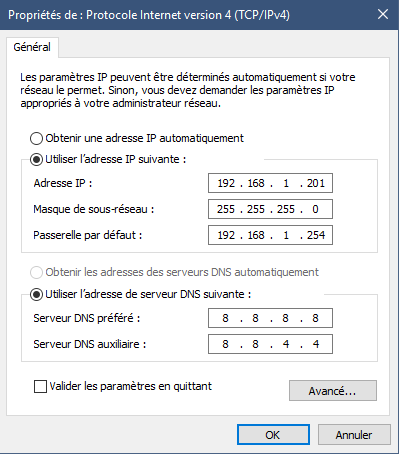
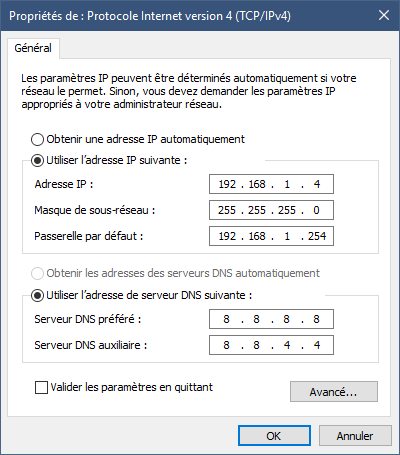
Update files

diff --git a/image_njz3/README.md b/image_njz3/README.md
@@ -2,9 +2,11 @@ Distribution Sega Racer 2022-2024 - njz3
 
 # A propos
 
-Cette image disque est basée sur un Windows 10 entreprise dont la configuration a été adaptée aux racecabs.
-Elle propose un Hyperspin basé sur Maximum Car de HFS Play, avec la plupart des jeux et emulateurs
-pré-configurés pour être jouables immédiatement en mode retour de force.
+Cette image disque est basée sur un Windows 10 entreprise dont la configuration
+a été adaptée aux racecabs.
+Elle propose un Hyperspin basé sur Maximum Car de HFS Play, avec la plupart des
+jeux et emulateurs pré-configurés pour être jouables immédiatement en mode 
+retour de force.
 Les dernières versions des émulateurs sont utilisés, en particulier :
 - MAME pour les jeux anciens, ou ceux des générations 90/2000 de Namco ou Taito par exemple.
 - Nebula model 2 pour Sega Model 2
@@ -14,25 +16,31 @@ Les dernières versions des émulateurs sont utilisés, en particulier :
 - Dolphin pour les jeux Triforce
 - Teknoparrot pour les jeux sur plateforme PC
 
-Le retour de force est soit natif à la plateforme ou à l'émulateur (model2, supermodel), soit généré par le 
-FFB plugin de Boomslangnz. Il a été réglé dans le BackForceFeeder afin de restituer au plus juste les effets
-originaux quand c'est possible.
-Le mapping des boutons et des axes par défaut est actuellement celui de ma borne Le Mans à savoir 1 volant 
-simple, 2 pédales, 1 Start, 2 view buttons, 1 shifter Up/Down.
-Je laisse à chacun le soin de refaire le mapping selon sa borne via mon soft BackforceFeeder en suivant le 
-nommage déjà pré-établi pour les boutons de chaque jeu.
+Le retour de force est soit natif à la plateforme ou à l'émulateur (model2,
+supermodel), soit généré par le FFB plugin de Boomslangnz. Il a été réglé dans
+le BackForceFeeder afin de restituer au plus juste les effets originaux quand
+c'est possible.
+Le mapping des boutons et des axes par défaut est actuellement celui de ma 
+borne Le Mans à savoir 1 volant, 2 pédales, 1 Start, 2 view buttons, 1 shifter
+Up/Down.
+Je laisse à chacun le soin de refaire le mapping selon sa borne via mon soft
+BackforceFeeder en suivant le nommage déjà pré-établi pour les boutons de 
+chaque jeu.
 
 La distribution fonctionne en mode FullHD (1920x1080) sur l'ensemble des jeux. 
-En se limitant aux jeux MAME, model 1/2/3 et Flycast (Naomi) la distribution peut fonctionner en 24 kHz à 
-l'aide du videoamp en 1024x768i ou 1024x384p, ou en 15 kHz avec le videoamp en mode 1280x240p ou 1280x480i.
+En se limitant aux jeux MAME, model 1/2/3 et Flycast (Naomi) la distribution
+peut fonctionner en 24 kHz à l'aide du videoamp en 1024x768i ou 1024x384p, ou
+en 15 kHz avec le videoamp en mode 1280x240p ou 1280x480i.
 
 
 # Configuration Hardware
 
 > **IMPORTANT**
-> Au premier démarrage, laisser le temps à Windows de démarrer puis installer vos drivers.
+> Au premier démarrage, laisser le temps à Windows de démarrer puis installer
+> vos drivers.
 
-Si vous pouvez connecter votre PC à internet, faites Windows Update pour récupérer vos drivers automatiquement.
+Si vous pouvez connecter votre PC à internet, faites Windows Update pour
+récupérer vos drivers automatiquement.
 Le SSD est prévu pour fonctionner sur un PC avec :
 - un processeur intel 4th gen (ou plus récent), ou un AMD Ryzen.
 - 4GB de RAM minimum
@@ -50,15 +58,20 @@ possible avec moins de jeux (uniquement MAME, model 1/2/3 et Naomi via Flycast).
 
 ## Reseau
 
-IP: 192.168.1.201 (ou 202 ou 203, 204, .. selon la cabine en multi)
+IP: 192.168.1.4 pour cabine 1 (ou 192.168.1.5 ou .6, .7, .. selon la cabine en multi)
+Masque de sous-réseau: 255.255.255.0
+Passerelle : 192.168.1.254 (modifable selon votre réseau LAN en 192.168.1.1)
+DNS : 8.8.8.8 ou 8.8.4.4 (DNS de Google)
+Broadcast address: 192.168.1.255
 
-Masque: 255.255.255.0
+Mettre réseau privé et désactiver le Firewall.
 
-Passerelle : 192.168.1.254
-
-DNS : 8.8.8.8 ou 4.4.4.4 (Google)
-
-Mettre réseau privé et désactiver le Firewall
+> **Note:**
+Pour le jeu en réseau sur model 2 emulator (Sega Rally, Daytona 1, etc.)
+if faut impérativement activer le support des trames de longues taille (3kB)
+soit via une option de votre carte réseau, soit activer l'option "Jumbo Frames"
+dans votre carte Ethernet (MTU >3kB) et avoir un switch Ethernet 1GBit qui 
+supporte les "Jumbo Frames".
 
 ![Configuration réseau](Utils/images/networkconfig.png "Configuration réseau").
 
@@ -133,21 +146,23 @@ Lancer Teknoparrot, vérifier qu'un jeu se lance.
 
 # Changement de configurations vidéo
 
-L'image standard contient des configurations d'émulateurs pour fonctionner en mode FullHD 1080p et il est
-nécessaire de les changer pour changer de mode vidéo.
-Des scripts SetXXX.bat sont présents dans le répertoire `Utils\` pour réaliser la copie des fichiers
-de configuration vidéo des émulateurs automatiquement.
+L'image standard contient des configurations d'émulateurs pour fonctionner
+en mode FullHD 1080 et il est nécessaire de les changer pour changer de mode
+vidéo. Des scripts SetXXX.bat sont présents dans le répertoire `Utils\` pour
+réaliser la copie des fichiers de configuration vidéo des émulateurs
+automatiquement.
 
 ![Scripts de changement de config vidéo](Utils/images/scriptsconfigvideo.png "Scripts de changement de config vidéo").
 
+Liste des résolutions:
 
-- FullHD 1080p
+- FullHD 1080p/i
 
 Tous les jeux fonctionnent en Full HD.
 
 
-- CRT 1280x960i (Videoamp 31Hz entrelacé sur VGA natif)
-- CRT 1024x768i (Videoamp 24Hz entrelacé sur VGA natif)
+- CRT 1280x960p/i (moniteur PC ou Videoamp 31Hz entrelacé sur VGA natif)
+- CRT 1024x768p/i (moniteur PC ou Videoamp 24Hz entrelacé sur VGA natif)
 
 Tous les jeux sauf certains Teknoparrot qui ne supportent que la HD 16/9e.
 
@@ -164,11 +179,17 @@ Seuls les jeux : MAME, model 2, model 3 et Naomi (Flycast) fonctionnent.
 
 ## Utiliser des basses résolutions en utilisant le GPU Scaling sur le VideoAmp
 
-Exemple : sortir du 512x384p en utilisant le VideoAmp sur une carte NVidia 1050Ti
-1. Configuger le VideoAmp avec 2 résolutions : la (P)referred en 1024x384p, la suivante en supplémentaire 512x384p avec exactement le même timing vertical (même modeline verticale).
+Exemple : sortir du 512x384p en utilisant le VideoAmp sur une carte NVidia 
+1050Ti.
+1. Configurer le VideoAmp avec 2 résolutions : la (P)referred en 1024x384p,
+la suivante en supplémentaire 512x384p avec exactement le même timing vertical
+(même valeur en vertical dans la modeline).
 2. Brancher le VideoAmp qui va etre détecter comme écran 1024x384p
-3. Aller dans le NVidia "Control Panel", et dans la page "Régler la taille et la position", activer le plein écran.
-4. Dans les propriétés d'affichage de Windows, sélectionner la résolution 512x384p, et vous aurez automatiquement un plein écran.
+3. Aller dans le NVidia "Control Panel", ou Intel ou AMD, et dans la page 
+"Régler la taille et la position", activer le plein écran ou le mode Stretch.
+4. Dans les propriétés d'affichage de Windows, sélectionner la résolution
+512x384p, et vous aurez automatiquement un plein écran avec scaling par GPU.
+
 
 # Pour ajouter un jeu 1P
 
@@ -186,15 +207,15 @@ Comme pratiquement chaque jeu a une configuration propre pour le FFB ou les
 boutons, il est conseillé de faire un fichier .bat pour chaque jeu, qui sera
 placé dans le dossier du jeu ou de l'émulateur qui va le lancer.
 
-Nommer votre fichier .bat de manière unique et identifiable facilement.
-Si possible, prendre un nom sans espace et qui correspont à un nom de rom unique.
+Nommer votre fichier .bat de manière unique et identifiable facilement. Si 
+possible, prendre un nom sans espace et qui correspont à un nom de rom unique.
 Par exemple : "daytonas.bat" dans le dossier de `C:\Racecab\Emulators\Model2 v1.1a`
 (rom "daytonas" pour le jeu Daytona Saturn Ads).
 
 Au besoin, placez les arguments dont vous avez besoin dans le .bat.
 Des utilitaires dans `C:\Racecab\Utils` vous permettent de faire des actions de
-bases, comme lancer un emulateur, appuyer sur une touche, tuer un process, changer
-de résolution, etc.
+bases, comme lancer un emulateur, appuyer sur une touche, tuer un process,
+changer de résolution, etc.
 En particulier, je recommande de mettre la fenetre en mode "minimized" dès le
 lancement et de donner un titre de fenetre (via la commande `TITLE`) qui soit
 unique pour le jeu, afin que le BackForceFeeder puisse identifier quel jeu est
@@ -263,7 +284,7 @@ Les options du module PCLauncher de RocketLauncher sont données en entête de
 fichier dans la balise [Example].
 
 > **ATTENTION**
-> pour temporairement enlever un jeu dans le fichier, il faut mettre des '#' au
+pour temporairement enlever un jeu dans le fichier, il faut mettre des '#' au
 début de ligne dans `C:\Racecab\Hyperspin\RocketLauncher\Modules\PCLauncher\1P.ini`
 et surtout supprimer les [] autour du nom du jeu, sinon RocketLauncher va
 quand même le détecter. 
@@ -283,15 +304,18 @@ Puis prendre le system 1P et taper le nom de votre jeu (par exemple 'daytonas').
 
 Lancer Hyperspin et faire la même chose en testant si votre jeu se lance.
 
+Pour vous aider à trouver les bons fichiers ou les bons répertoires, vous pouvez
+lancer le script `C:\Racecab\Utils\edit1Pfiles.Bat`
+
 ## Configuration BackForceFeeder
 
 Ajouter un nouveau control set en duplicant un existant.
 
-Pour automatiquement détecter le jeu dans le BFF, préciser soit le nom de l'exécutable
-et le titre de la fenetre principale, soit dans le fichier .bat ajouter un TITLE
-avec un titre unique ou le nom du fichier .bat. Dans ce cas, dans le BFF 
-indiquer `conhost|cmd` dans l'exe, et en nom de fenetre ce que vous avez mis en
-TITLE de votre .bat (en général nom du fichier .bat).
+Pour automatiquement détecter le jeu dans le BFF, préciser soit le nom de 
+l'exécutable et le titre de la fenetre principale, soit dans le fichier .bat 
+ajouter un TITLE avec un titre unique ou le nom du fichier .bat. Dans ce cas,
+dans le BFF, indiquer `conhost|cmd` dans l'exe, et en nom de fenetre ce que 
+vous avez mis en TITLE de votre .bat (en général nom du fichier .bat).
 
 Lancer le jeu via le .bat et verifier que le BFF bascule vers le control set
 (vous devez avoir coché l'autodetection dans App&Hardware pour que cela marche).
@@ -324,16 +348,19 @@ En résumé :
 6) Si besoin, configurer le BFF pour détecter votre .bat ou votre jeu et 
 configurer les controles, les lampes ou le retour de force.
 
+Pour vous aider à trouver les bons fichiers ou les bons répertoires, vous pouvez
+lancer le script `C:\Racecab\Utils\editMULTIfiles.Bat`
+
 
 # Configuration du BackForceFeeder
 
-Le logiciel BackForceFeeder est pré-installé et possède une configuration par défaut
-pour la plupart des jeux en mode shifter Up/Down et 2x View Buttons.
+Le logiciel BackForceFeeder est pré-installé et possède une configuration par
+défaut pour la plupart des jeux en mode shifter Up/Down et 2x View Buttons.
 
-Le logiciel nécessite un fichier `licence.dat` pour être activé, qui est fourni sur
-demande par email à `bff.register@gmail.com` en indiquant votre ID de machine et 
-en joignant un don paypal à la même adresse email (un minimum de 20€ par machine est 
-demandé).
+Le logiciel nécessite un fichier `licence.dat` pour être activé, qui est fourni
+sur demande par email à `bff.register@gmail.com` en indiquant votre ID de
+machine et en joignant un don paypal à la même adresse email (un minimum de 20€
+par machine est demandé).
 
 Le fichier de licence est à placer dans le répertoire :
 `C:\Users\Racecab\Documents\BackForceFeeder`
@@ -343,12 +370,20 @@ Le fichier de licence est à placer dans le répertoire :
 Les configurations sont stockées dans le répertoire :
 `C:\Users\Racecab\Documents\BackForceFeeder`
 
-Le sous-dossier ControlSets contient en particulier les configurations pour chaque jeu.
-Vous ne pouvez pas éditer à la main ces fichiers si le logiciel fonctionne, il faut
-d'abord le fermer pour pouvoir modifier les fichiers.
+Le sous-dossier ControlSets contient en particulier les configurations pour
+chaque jeu. Vous ne pouvez pas éditer à la main ces fichiers si le logiciel
+fonctionne, il faut d'abord le fermer pour pouvoir modifier les fichiers.
 
 
 # Notes - FAQ
+
+## Jeux Model 2 en mode Link
+
+Pour avoir un bon fonctionnement en mode Link (MULTI) il est obligatoire
+d'avoir un switch 1Gbs et d'activer le mode "Jumbo Frame", voir au début
+de ce document.
+La touche pour quitter l'émulateur est Alt+F4.
+
 
 ## Jeux Teknoparrot
 
@@ -358,12 +393,35 @@ Prévoir de copier les fichiers EPROM single/multi dans `C:\Users\Racecab\AppDat
 
 ### Raw Thrills PC Based
 
-La plupart des jeux Raw Thrills necessite d'etre à la racine de `C:\` dans un repertoire commencant par `rawart`, par
-exemple: 
+La plupart des jeux Raw Thrills necessite d'etre à la racine de `C:\` dans un
+repertoire commencant par `rawart`, par exemple: 
 - `Fast n Furious serie` dans `C:\rawart FnF\`
 - `Winter X Games Snocross` obligatoirement dans `C:\rawart Winter X Games Snocross\` sinon image qui fait du flickering.
 - `SuperBikes` obligatoirement dans `C:\rawart SuperBikes\` sinon erreur CRC
 - `SuperBikes 2` obligatoirement dans `C:\rawart SuperBikes2\` sinon erreur CRC
+
+### Daytona USA Championship (TP)
+
+Le jeu ne fonctionnera en multi __*que si une webcam USB compatible*__ est branchée.
+
+Il est important de respecter une adresse IP en 192.168.1.X dont le dernier
+chiffre X est en dessous de 10 (exemple: X=4, X=5, X=6, X=7).
+Fichiers à modifier : 
+- ShellData\ShellData.ini : dans [Network], mettre Enabled=1, CabinetID=1 (ou 2, 3, 4), NumCabinets=2 (ou 4)
+- Shell\Game.ini : dans [Network], mettre CabinetDomain=192.168.1 et CabinetBaseAddr=X (avec X=4 ou 5, 6, 7 selon votre IP)
+
+Pour le Service menu (shell): 
+- déplacer le jeu à la racine C:\Sega
+- installer driver DK2
+- désactiver sortie son HDMI et activer sortie son analogique
+- lancer C:\Sega/shell/shell.exe
+- appuyer sur la touche T (pour test), et la touche Y pour service
+
+### Sega Rally 3 - Autres Editions (courses issues de la version PC)
+
+Les Editions Artic, Alpines, etc. utilisent les circuits de la version PC mais
+ne marchent qu'en mode Quick Race (single ou multijoueur) et non en mode 
+championnat. Le mode championnat ne marche qu'avec la version arcade originale.
 
 # Change log
 
